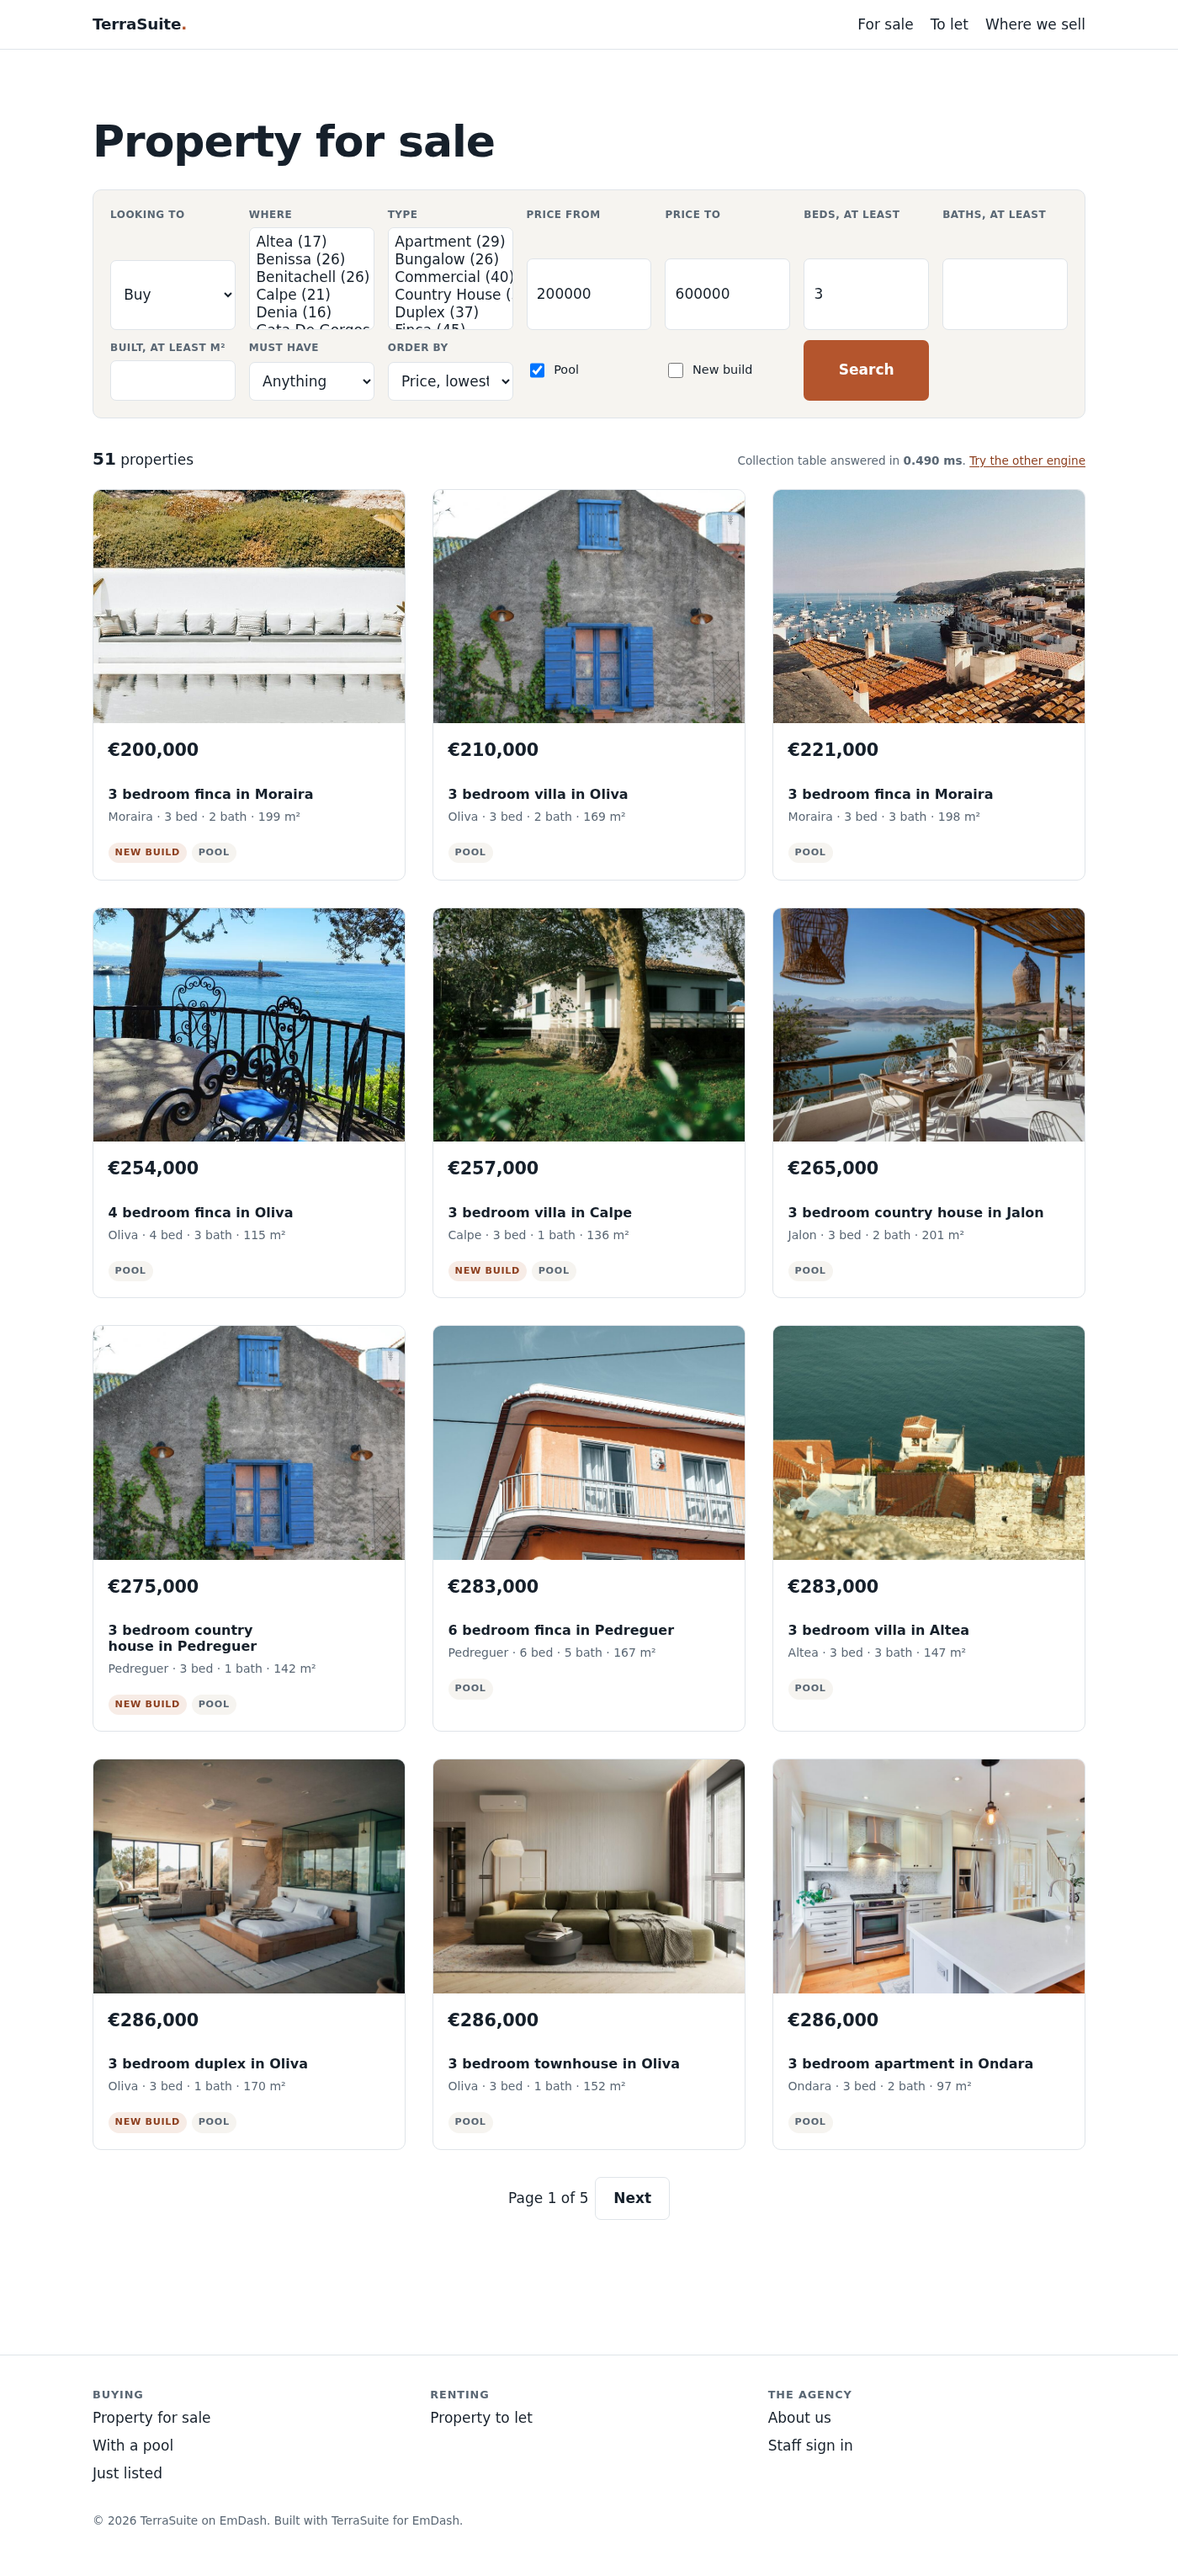
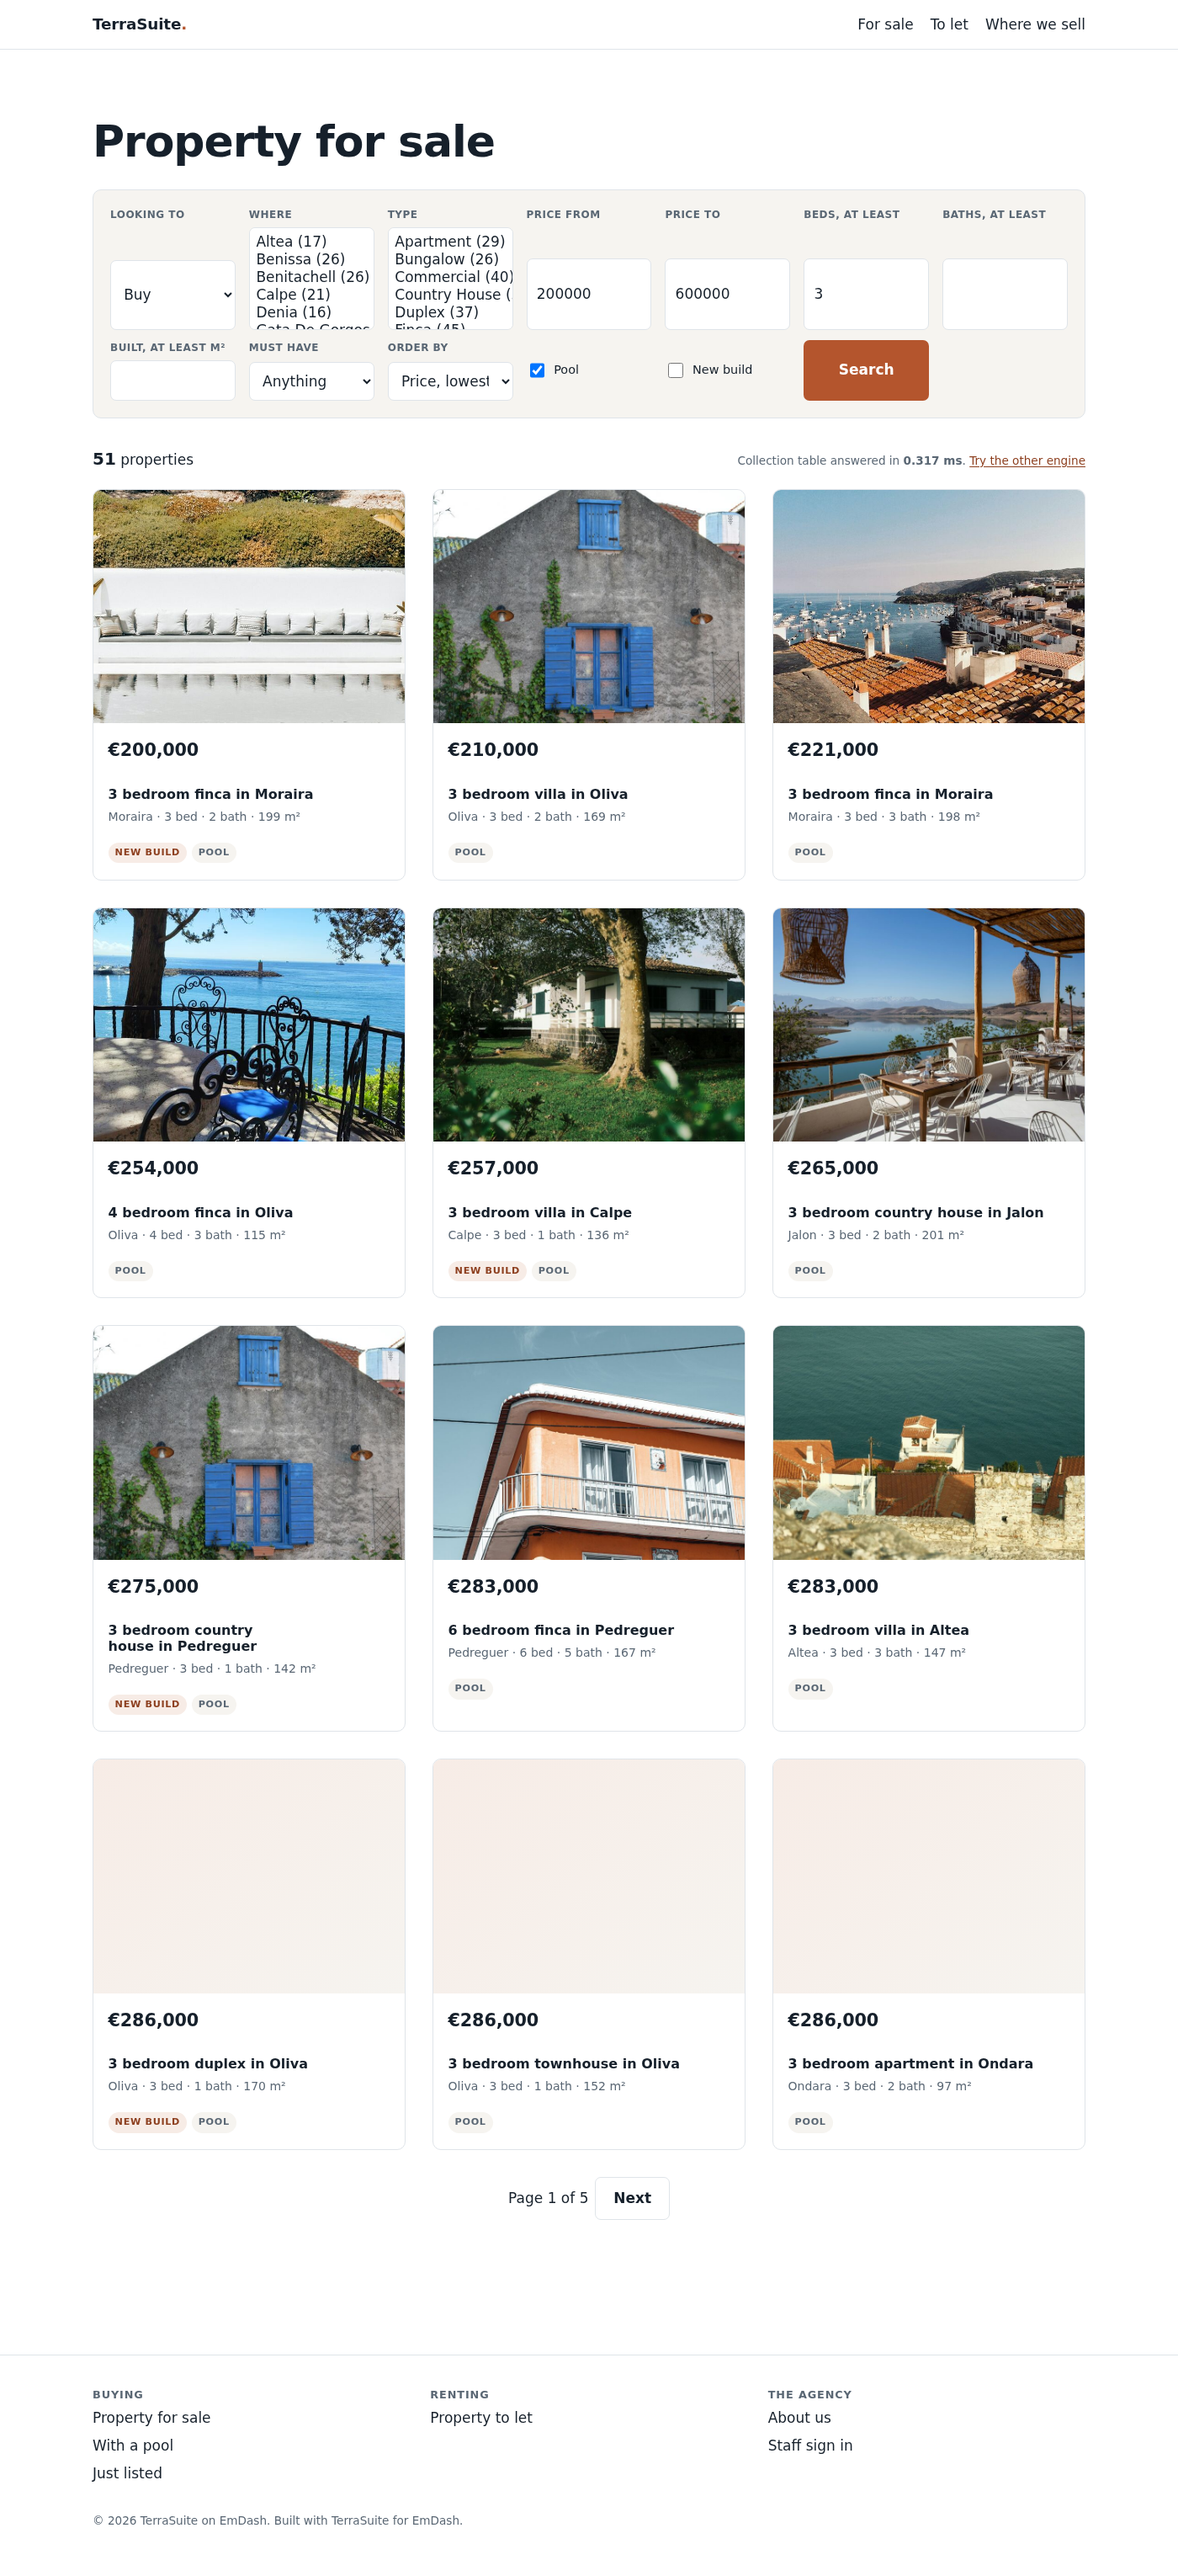
Read an image field as the JSON it is, not as a bare media id
An image field is a TEXT column holding the object EmDash's own image field
defines - id, and the src, alt and dimensions cached when an editor picks the
photograph (MediaValue, emdash/src/media/types.ts). It is not the media id on
its own.

property-search.ts joined `media.id = p.featured_image`, which matched only
rows written by this repository's demo loader, because the loader wrote a bare
id. On a real site, where the agency chooses a photograph in the admin panel,
the column holds JSON, the join matched nothing, and every card fell back to
the placeholder panel. The search results in the screenshots were only ever
full of photographs because both halves were wrong in the same way.

A property page showed the same fault from the other side: <Image> treats a
string as a URL, so the page rendered src="01M3MY..." and a broken image. That
is the only place it was visible, which is why it survived.

So the loader now writes the documented shape, and the search reads it: src
where the value carries one, and a single lookup for the whole page where it
does not.

Behind a proxy the app cannot work out its own public origin, and EmDash then
writes http://127.0.0.1:4321/... into the src and srcset of every image its
<Image> renders - again on property pages only, because the cards build their
own URLs. README says to set EMDASH_SITE_URL.

Changed region(s): [[0.0614, 0.683, 0.9214, 0.7761]]

diff --git a/src/lib/property-search.ts b/src/lib/property-search.ts
@@ -155,14 +155,71 @@ interface Raw {
 	pool: number;
 	new_build: number;
 	availability: string;
-	image_id: string | null;
-	image_key: string | null;
-	image_alt: string | null;
+	image_json: string | null;
 }
 
 /** A storage key is the URL after the media prefix, so nothing is looked up twice. */
 const mediaUrl = (key: string) =>
 	`/_emdash/api/media/file/${key.split("/").map(encodeURIComponent).join("/")}`;
+
+/**
+ * The photograph for a card.
+ *
+ * An image field is a TEXT column holding the JSON that EmDash's own image
+ * field defines - id, and optionally src, alt, width and height cached at the
+ * moment the editor picked it (see MediaValue in emdash/src/media/types.ts).
+ * It is NOT a bare media id, which is what an earlier version of this file
+ * joined on: that matched only rows written by our own demo loader, so a real
+ * agency picking a photograph in the admin got a placeholder panel instead.
+ *
+ * src is optional in that shape, so anything without one is looked up by id -
+ * once for the whole page, not once per card.
+ */
+interface Pic {
+	id: string;
+	src: string;
+	alt: string;
+}
+
+function pictures(rows: Raw[]): Map<string, Pic> {
+	const out = new Map<string, Pic>();
+	const lookup = new Map<string, { id: string; alt: string }>();
+
+	for (const r of rows) {
+		if (!r.image_json) continue;
+
+		let value: { id?: string; src?: string; alt?: string };
+		try {
+			value = JSON.parse(r.image_json);
+		} catch {
+			continue; // Not the documented shape; a card without a photograph.
+		}
+
+		if (!value?.id) continue;
+
+		const alt = value.alt || r.title;
+
+		if (value.src) out.set(r.id, { id: value.id, src: value.src, alt });
+		else lookup.set(value.id, { id: r.id, alt });
+	}
+
+	if (lookup.size) {
+		const ids = [...lookup.keys()];
+		const found = db()
+			.prepare(
+				`SELECT id, storage_key, alt FROM media WHERE id IN (${ids.map(() => "?").join(",")})`,
+			)
+			.all(...ids) as unknown as Array<{ id: string; storage_key: string; alt: string | null }>;
+
+		for (const m of found) {
+			const want = lookup.get(m.id);
+			if (!want || !m.storage_key) continue;
+			out.set(want.id, { id: m.id, src: mediaUrl(m.storage_key), alt: m.alt || want.alt });
+		}
+	}
+
+	return out;
+}
 
 export function search(c: Criteria): Result {
 	const { clause, args } = build(c);
@@ -184,15 +241,15 @@ export function search(c: Criteria): Result {
 		.prepare(
 			`SELECT p.id, p.slug, p.title, p.price, p.currency, p.beds, p.baths,
 			        p.built_area, p.town, p.property_type, p.dept, p.pool,
-			        p.new_build, p.availability,
-			        m.id AS image_id, m.storage_key AS image_key, m.alt AS image_alt
+			        p.new_build, p.availability, p.featured_image AS image_json
 			 FROM ec_properties p
-			 LEFT JOIN media m ON m.id = p.featured_image
 			 WHERE ${clause}
 			 ORDER BY ${order}
 			 LIMIT ? OFFSET ?`,
 		)
 		.all(...args, perPage, (page - 1) * perPage) as unknown as Raw[];
+
+	const pics = pictures(rows);
 
 	return {
 		rows: rows.map((r) => ({
@@ -210,9 +267,7 @@ export function search(c: Criteria): Result {
 			availability: r.availability,
 			pool: Boolean(r.pool),
 			new_build: Boolean(r.new_build),
-			image: r.image_id && r.image_key
-				? { id: r.image_id, src: mediaUrl(r.image_key), alt: r.image_alt || r.title }
-				: null,
+			image: pics.get(r.id) ?? null,
 		})),
 		total,
 		pages: Math.max(Math.ceil(total / perPage), 1),

diff --git a/README.md b/README.md
@@ -66,6 +66,19 @@ npm run seed                 # regenerate the seed, any number of properties
 node scripts/load-demo-stock.mjs 420   # or load straight into an existing database
 ```
 
+### Putting it behind a proxy
+
+Set `EMDASH_SITE_URL` to the browser-facing origin. Behind Apache, nginx or a
+tunnel the app only ever sees the internal request URL, so without it EmDash
+writes `http://127.0.0.1:4321/...` into the `src` and `srcset` of every image
+its own `<Image>` renders. The search results still look right, because the
+cards build their own URLs, so this shows up on property pages alone and is
+easy to miss.
+
+```sh
+EMDASH_SITE_URL=https://www.your-agency.com node ./dist/server/entry.mjs
+```
+
 Photographs are not in the seed. `scripts/load-demo-photos.mjs --from <folder>`
 puts a folder of JPEGs into the media library and hands them out by property
 type, which is how the demo site above is dressed.
